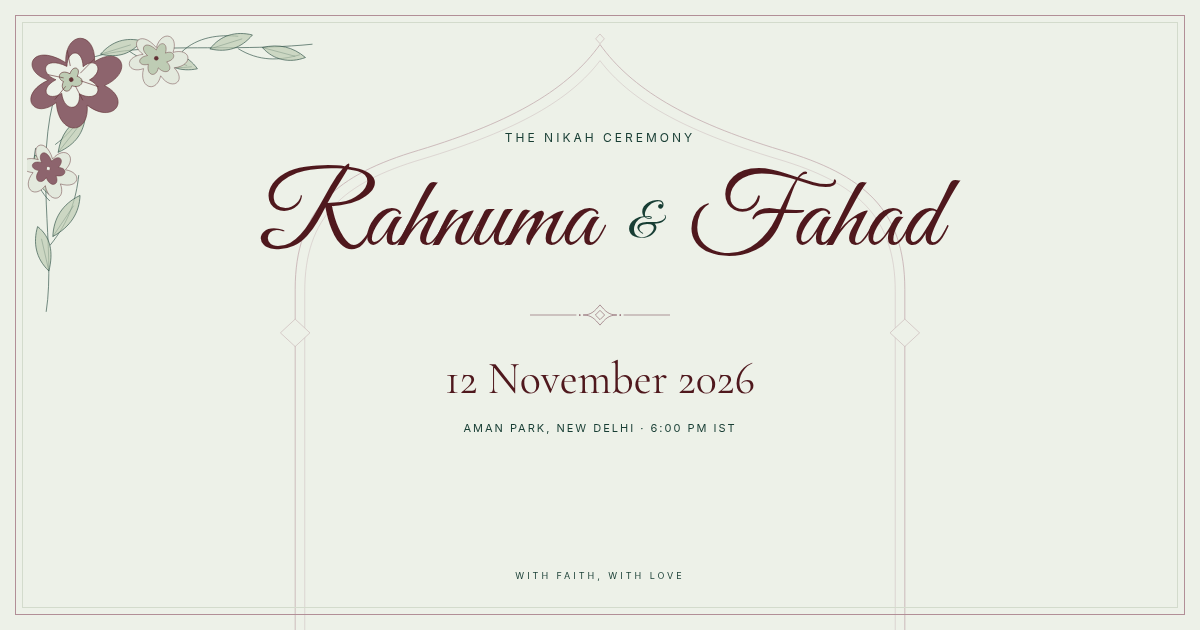
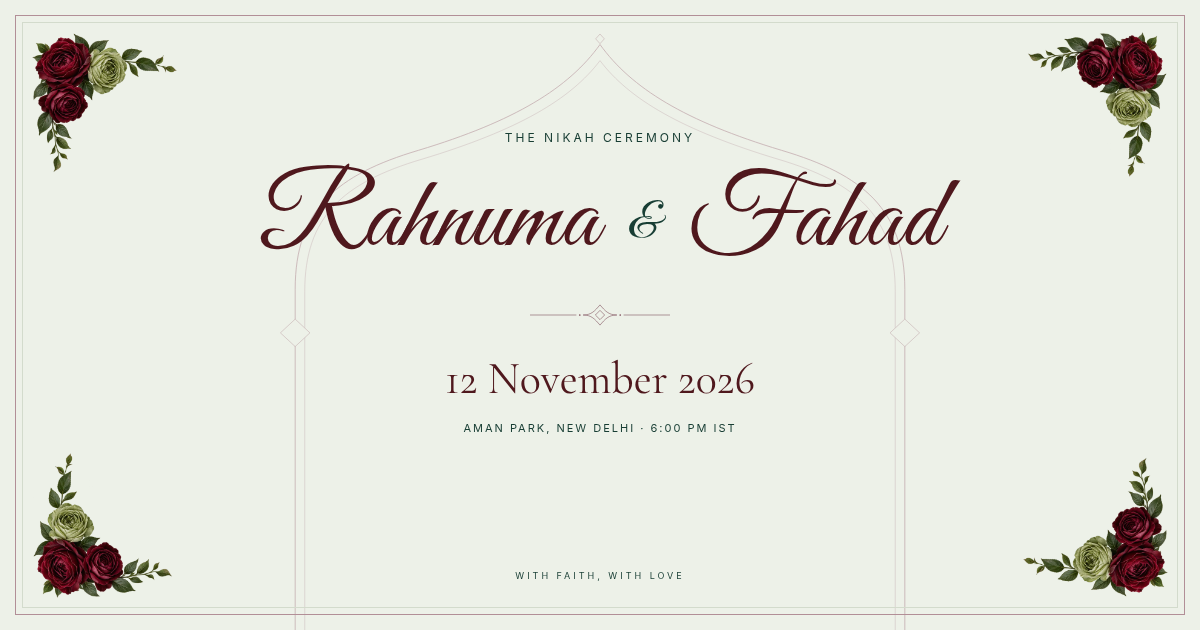
Replace flat hero florals with textured roses in four corners

diff --git a/design/social-preview.html b/design/social-preview.html
@@ -1,4 +1,4 @@
 <!DOCTYPE html><html lang="en"><head><meta charset="utf-8"><style>
  @font-face{font-family:Invitation;src:url(../public/fonts/cormorant-garamond-latin.woff2);font-weight:300 700}@font-face{font-family:Details;src:url(../public/fonts/inter-latin.woff2);font-weight:100 900}
  :root{--forest:#183e34;--sage:#b8c8ad;--paper:#edf1e8;--paper-deep:#e2e9dc;--maroon:#4f181d;--maroon-soft:#80515d;--maroon-line:#b28f97}*{box-sizing:border-box}body{margin:0;width:1200px;height:630px;background:var(--paper);color:var(--maroon);text-align:center;overflow:hidden;font-family:Invitation;position:relative}body:before{content:'';position:absolute;inset:15px;border:1px solid #b28f97}body:after{content:'';position:absolute;inset:22px;border:1px solid #d3dbcc}.hero-arch{position:absolute;left:270px;top:34px;width:660px;height:630px;color:var(--maroon-line);opacity:.65}.floral{position:absolute;width:275px;height:500px;top:45px}.left{left:-20px;transform:scaleX(-1)}.right{right:-20px}.content{position:relative;padding-top:130px}.eyebrow{font-family:Details;font-size:12px;letter-spacing:3px;margin:0 0 25px;color:var(--forest)}h1{font-weight:400;font-size:113px;line-height:1;margin:0;letter-spacing:-4px}h1 span{font-size:55px;vertical-align:9px;padding:0 12px;color:var(--forest)}.ornament{width:140px;height:28px;margin:27px auto 21px;color:var(--maroon-soft)}.date{font-size:44px;line-height:1.1;margin:0}.location{font-family:Details;font-size:11px;letter-spacing:2px;color:var(--forest);margin-top:18px}.footer{position:absolute;bottom:40px;width:100%;font-family:Details;font-size:9px;letter-spacing:3px;color:var(--forest)}
- @font-face{font-family:Names;src:url('../public/fonts/great-vibes-latin.woff2');font-weight:400}h1{font-family:Names;letter-spacing:0;font-size:104px}h1 span{font-size:50px}</style><style>.hero-corner-floral{position:absolute;width:305px;height:305px;left:27px;top:27px;opacity:.88}</style></head><body><svg class="hero-corner-floral" viewBox="0 0 460 460" fill="none" aria-hidden="true"><g stroke="var(--forest)" stroke-width="1" stroke-linecap="round" stroke-linejoin="round"><path d="M29 429C44 332 9 206 45 93 73 5 263 43 430 26M35 329c29-36 39-69 43-105M34 262C9 238 8 206 13 183M43 177c28-21 43-44 48-70M155 37c32 22 58 27 93 23M234 37c23-22 56-26 84-23M319 33c31 19 61 18 92 9"></path><g fill="var(--sage)" fill-opacity=".7"><path d="M33 368c-20-19-24-43-17-67 20 16 24 39 17 67ZM39 316c27-15 40-36 41-62-27 13-40 35-41 62ZM33 252c-19-14-27-37-21-59 19 13 27 33 21 59ZM47 189c27-12 39-31 41-55-25 11-37 29-41 55ZM111 41c17-20 39-26 62-20-16 20-36 26-62 20ZM196 41c15 20 37 27 61 22-15-21-36-28-61-22ZM276 33c16-21 39-27 64-21-17 20-38 27-64 21ZM355 31c17 19 41 24 65 15-19-16-40-21-65-15Z"></path></g><g stroke-width=".6" opacity=".65"><path d="m33 368-11-48m17-4 31-46m-37-18-16-45m30-18 33-42m31-106 45-14m40 14 45 17m35-25 48-15m31 13 49 13"></path></g></g><g transform="translate(63 68) rotate(-18)" stroke="var(--maroon)" stroke-width=".85"><path d="M0-15C-40-62-70-24-33 2c-52 6-41 51 1 36-13 48 32 64 43 18 28 41 67 13 34-20 50-6 43-51-3-39C58-47 14-62 0-15Z" fill="var(--maroon-soft)"></path><path d="M0-9C-28-36-44-13-22 5c-30 5-23 29 2 22-6 29 20 35 25 9 20 21 41 4 21-15 28-6 20-32-3-22C31-28 9-34 0-9Z" fill="var(--paper)"></path><path d="M1 3c-12-13-23 0-13 8-11 11 2 23 10 10 13 10 24-3 12-11C21-1 9-9 1 3Z" fill="var(--sage)"></path><path d="M-31-6-10 6m-23 27 22-14m18 28-4-24m33 12L13 18m30-25L16 7M8-32 5-8"></path><circle cy="12" r="3" fill="var(--maroon)"></circle></g><g transform="translate(195 40) scale(.6)" stroke="var(--maroon)" stroke-width="1.1"><path d="M0-15C-40-62-70-24-33 2c-52 6-41 51 1 36-13 48 32 64 43 18 28 41 67 13 34-20 50-6 43-51-3-39C58-47 14-62 0-15Z" fill="var(--paper-deep)"></path><path d="M0-9C-28-36-44-13-22 5c-30 5-23 29 2 22-6 29 20 35 25 9 20 21 41 4 21-15 28-6 20-32-3-22C31-28 9-34 0-9Z" fill="var(--sage)"></path><circle cy="12" r="5" fill="var(--maroon)"></circle></g><g transform="translate(35 207) rotate(24) scale(.58)" stroke="var(--maroon)" stroke-width="1.1"><path d="M0-15C-40-62-70-24-33 2c-52 6-41 51 1 36-13 48 32 64 43 18 28 41 67 13 34-20 50-6 43-51-3-39C58-47 14-62 0-15Z" fill="var(--paper-deep)"></path><path d="M0-9C-28-36-44-13-22 5c-30 5-23 29 2 22-6 29 20 35 25 9 20 21 41 4 21-15 28-6 20-32-3-22C31-28 9-34 0-9Z" fill="var(--maroon-soft)"></path><circle cy="12" r="5" fill="var(--paper)"></circle></g></svg><svg class="hero-arch" viewBox="0 0 760 780" preserveAspectRatio="none" fill="none" aria-hidden="true"><path d="M29 779V316c0-99 48-142 142-172C282 108 344 67 380 13c36 54 98 95 209 131 94 30 142 73 142 172v463" stroke="currentColor" stroke-width="1"></path><path d="M40 779V319c0-93 44-135 135-164C286 119 346 81 380 33c34 48 94 86 205 122 91 29 135 71 135 164v460" stroke="currentColor" stroke-width=".5"></path><path d="m380 0 5 6-5 6-5-6 5-6Zm-368 370 17 17 17-17-17-17-17 17Zm702 0 17 17 17-17-17-17-17 17Z" fill="var(--paper)" stroke="currentColor" stroke-width=".7"></path></svg><div class="content"><p class="eyebrow">THE NIKAH CEREMONY</p><h1>Rahnuma <span>&amp;</span> Fahad</h1><svg class="ornament hero-ornament" width="166" height="25" viewBox="0 0 166 25" fill="none" aria-hidden="true"><path d="M0 12.5h55m56 0h55M63 12.5c10 0 14-5 20-12 6 7 10 12 20 12-10 0-14 5-20 12-6-7-10-12-20-12Z" stroke="currentColor" stroke-width=".7"></path><path d="m83 7 5.5 5.5L83 18l-5.5-5.5L83 7Z" stroke="currentColor" stroke-width=".7"></path><circle cx="59" cy="12.5" r="1" fill="currentColor"></circle><circle cx="107" cy="12.5" r="1" fill="currentColor"></circle></svg><p class="date">12 November 2026</p><p class="location">AMAN PARK, NEW DELHI · 6:00 PM IST</p></div><p class="footer">WITH FAITH, WITH LOVE</p></body></html>
+ @font-face{font-family:Names;src:url('../public/fonts/great-vibes-latin.woff2');font-weight:400}h1{font-family:Names;letter-spacing:0;font-size:104px}h1 span{font-size:50px}</style><style>.social-floral{position:absolute;width:155px;height:155px;pointer-events:none}.social-floral-top-left{left:27px;top:27px}.social-floral-top-right{right:27px;top:27px;transform:rotate(90deg)}.social-floral-bottom-right{right:27px;bottom:27px;transform:rotate(180deg)}.social-floral-bottom-left{left:27px;bottom:27px;transform:rotate(270deg)}</style></head><body><img class="social-floral social-floral-bottom-left" src="../public/illustrations/floral-corner.webp" width="512" height="512" alt="" aria-hidden="true"><img class="social-floral social-floral-bottom-right" src="../public/illustrations/floral-corner.webp" width="512" height="512" alt="" aria-hidden="true"><img class="social-floral social-floral-top-right" src="../public/illustrations/floral-corner.webp" width="512" height="512" alt="" aria-hidden="true"><img class="social-floral social-floral-top-left" src="../public/illustrations/floral-corner.webp" width="512" height="512" alt="" aria-hidden="true"><svg class="hero-arch" viewBox="0 0 760 780" preserveAspectRatio="none" fill="none" aria-hidden="true"><path d="M29 779V316c0-99 48-142 142-172C282 108 344 67 380 13c36 54 98 95 209 131 94 30 142 73 142 172v463" stroke="currentColor" stroke-width="1"></path><path d="M40 779V319c0-93 44-135 135-164C286 119 346 81 380 33c34 48 94 86 205 122 91 29 135 71 135 164v460" stroke="currentColor" stroke-width=".5"></path><path d="m380 0 5 6-5 6-5-6 5-6Zm-368 370 17 17 17-17-17-17-17 17Zm702 0 17 17 17-17-17-17-17 17Z" fill="var(--paper)" stroke="currentColor" stroke-width=".7"></path></svg><div class="content"><p class="eyebrow">THE NIKAH CEREMONY</p><h1>Rahnuma <span>&amp;</span> Fahad</h1><svg class="ornament hero-ornament" width="166" height="25" viewBox="0 0 166 25" fill="none" aria-hidden="true"><path d="M0 12.5h55m56 0h55M63 12.5c10 0 14-5 20-12 6 7 10 12 20 12-10 0-14 5-20 12-6-7-10-12-20-12Z" stroke="currentColor" stroke-width=".7"></path><path d="m83 7 5.5 5.5L83 18l-5.5-5.5L83 7Z" stroke="currentColor" stroke-width=".7"></path><circle cx="59" cy="12.5" r="1" fill="currentColor"></circle><circle cx="107" cy="12.5" r="1" fill="currentColor"></circle></svg><p class="date">12 November 2026</p><p class="location">AMAN PARK, NEW DELHI · 6:00 PM IST</p></div><p class="footer">WITH FAITH, WITH LOVE</p></body></html>

diff --git a/src/styles/global.css b/src/styles/global.css
@@ -49,7 +49,6 @@ body{position:relative}
 .hero-scroll{position:absolute;bottom:25px;left:50%;transform:translateX(-50%);display:flex;flex-direction:column;align-items:center;text-decoration:none;gap:13px;min-height:44px;font-size:8px;letter-spacing:.22em;white-space:nowrap;color:var(--green-muted)}
 .hero-scroll svg{height:24px}
 .hero-side-note{position:absolute;left:37px;top:51%;writing-mode:vertical-rl;transform:rotate(180deg);font-size:8px;letter-spacing:.23em;color:var(--green-muted)}
-.hero-corner-floral{position:absolute;width:clamp(230px,27vw,380px);height:auto;top:7px;left:16px;z-index:-1;opacity:.88;pointer-events:none}
 .invitation,.closing,.button-maroon,.skip-link{background-image:var(--velvet-texture);background-size:cover;background-position:center;background-repeat:no-repeat}
 .section-inner{max-width:1080px;margin:auto;padding-right:32px;padding-left:32px;text-align:center}
 .section-dark{background-color:var(--forest);color:var(--paper)}
@@ -134,7 +133,7 @@ blockquote footer{font-size:9px;letter-spacing:.045em;color:var(--green-muted);l
 .back-top{font-size:8px;letter-spacing:.15em;text-decoration:none;display:flex;align-items:center;gap:14px;min-height:44px}
 .back-top>span{font-size:20px}
 @media(min-width:1100px) and (min-height:850px){.hero{padding-top:80px}.hero-occasion{margin-bottom:17px}.hero-blessing{margin-bottom:28px}.hero-ornament{margin-top:30px;margin-bottom:20px}.hero-date{font-size:43px}}
-@media(max-width:850px){.hero-side-note{display:none}.hero-corner-floral{width:240px;left:10px}.hero-arch{width:85%}.hero{min-height:735px}.masthead{padding:0 32px}.venue-section{gap:35px}.date-composition{gap:20px}.date-side{width:155px}.venue-art{min-height:300px;padding:15px}.venue-copy .eyebrow{max-width:230px}.page-footer{padding:24px 32px}.page-footer p{letter-spacing:.08em}.page-footer p span{margin:0 8px}}
+@media(max-width:850px){.hero-side-note{display:none}.hero-arch{width:85%}.hero{min-height:735px}.masthead{padding:0 32px}.venue-section{gap:35px}.date-composition{gap:20px}.date-side{width:155px}.venue-art{min-height:300px;padding:15px}.venue-copy .eyebrow{max-width:230px}.page-footer{padding:24px 32px}.page-footer p{letter-spacing:.08em}.page-footer p span{margin:0 8px}}
 @media(max-width:600px){
   .page-frame{inset:8px 8px auto;height:calc(100% - 16px)}
   .masthead{height:66px;padding:0 25px;gap:10px}
@@ -142,7 +141,6 @@ blockquote footer{font-size:9px;letter-spacing:.045em;color:var(--green-muted);l
   .masthead-message{display:none}.masthead-date{font-size:8px;letter-spacing:.17em;gap:9px}
   .hero{min-height:615px;height:calc(100svh - 66px);max-height:765px;padding:63px 23px 90px;align-items:center}
   .hero-arch{width:calc(100% - 43px);top:7px;height:calc(100% - 64px)}
-  .hero-corner-floral{width:170px;top:9px;left:12px;opacity:.8}
   .bismillah{font-size:29px;line-height:1.8}
   .bismillah-translation{font-size:12px;max-width:240px;line-height:1.5;margin:0 auto 22px}
   .hero-blessing{font-size:6.5px;letter-spacing:.12em;line-height:1.9;max-width:240px;margin:0 auto 19px}
@@ -191,6 +189,6 @@ blockquote footer{font-size:9px;letter-spacing:.045em;color:var(--green-muted);l
   .page-footer{padding:25px 28px 29px;flex-wrap:wrap;gap:5px 10px;min-height:140px}.footer-monogram{font-size:28px;min-width:60px}.page-footer p{order:3;width:100%;font-size:6.5px;letter-spacing:.1em;margin-top:5px;text-align:center}.page-footer p span{margin:0 9px}.back-top{font-size:7px;gap:10px}
 }
 @media(max-width:359px){.hero{padding-left:19px;padding-right:19px;min-height:590px;padding-top:54px}.hero-arch{width:calc(100% - 32px)}.bismillah{font-size:26px}.hero-blessing{max-width:220px;font-size:6px}.hero-place{font-size:9px}.hero-date{font-size:28px}.hero-occasion{font-size:20px}.couple-names{font-size:11.5vw}.bismillah-translation{font-size:11px;margin-bottom:19px}.hero-ornament{margin-top:18px;margin-bottom:13px}.hero-scroll{font-size:6px}.section-inner{padding-left:18px;padding-right:18px}.invitation h2{font-size:36px}.family-details{gap:14px}.family-details strong{font-size:16px}.verse-section{padding-left:18px;padding-right:18px}.celebration h2{font-size:34px}.actions{gap:8px}.button{font-size:9px;padding:13px 11px}.venue-section{padding:0 25px}.closing{padding-left:25px;padding-right:25px}.closing h2{font-size:29px}.closing-family{font-size:23px}}
-@media(prefers-reduced-motion:no-preference){.hero-content{animation:arrive .8s ease-out both}.hero-corner-floral{animation:botanical-appear 1.2s ease-out both}@keyframes arrive{from{opacity:.75;transform:translateY(6px)}to{opacity:1;transform:translateY(0)}}@keyframes botanical-appear{from{opacity:.3}to{opacity:.88}}}
+@media(prefers-reduced-motion:no-preference){.hero-content{animation:arrive .8s ease-out both}@keyframes arrive{from{opacity:.75;transform:translateY(6px)}to{opacity:1;transform:translateY(0)}}}
 @media(prefers-reduced-motion:reduce){html{scroll-behavior:auto}*,*::before,*::after{animation:none!important;transition:none!important}}
 @media print{.masthead,.hero-scroll,.page-frame,.page-footer,.share-invitation,.sharing-note{display:none!important}.hero{height:auto;min-height:700px;break-after:page}.section-dark{print-color-adjust:exact}.button{border:1px solid currentColor}.page-frame{border:0}section{break-inside:avoid}}

diff --git a/design/DESIGN-SYSTEM.md b/design/DESIGN-SYSTEM.md
@@ -23,7 +23,7 @@ Every visible color is a shade of maroon or green. All authoritative values are 
 
 Self-hosted Great Vibes forms the couple's and parents' names. Cormorant Garamond variable normal and italic form the editorial headings, quotes, and date numerals. Inter variable is reserved for labels, practical details, and controls. Amiri renders the exact Arabic opening; the included subset is specific to that text.
 
-Use the paired Mughal arch lines, one upper-left L-shaped floral arrangement, thin double stationery borders, central rosette separators, and illustrated architecture. Burgundy panels use the lightweight local velvet image, recreated from the supplied visual reference, with `background-size: cover` and no tiling. The couple illustration follows the reference's rear-view pose and flowing bridal train. The date is always prominent. Content order is a centered arch hero, dark family invitation, scriptural excerpt, ceremonial date composition, location, maroon closing, and monogram footer. Names and date must fit the first invitation viewport on a narrow phone after the entrance opens.
+Use the paired Mughal arch lines, small textured rose arrangements in all four corners of the invitation hero, thin double stationery borders, central rosette separators, and illustrated architecture. The four rose arrangements reuse one optimized transparent image with detailed burgundy and sage petals and green foliage; the lower clusters clear the music control. Burgundy panels use the lightweight local velvet image, recreated from the supplied visual reference, with `background-size: cover` and no tiling. The couple illustration follows the reference's rear-view pose and flowing bridal train. The date is always prominent. Content order is a centered arch hero, dark family invitation, scriptural excerpt, ceremonial date composition, location, maroon closing, and monogram footer. Names and date must fit the first invitation viewport on a narrow phone after the entrance opens.
 
 A Mughal double-door entrance precedes this composition. The opening tap starts the music and swings the doors aside to reveal the invitation. Carved jali linework, sage borders, and the burgundy velvet reuse the same identity. Keyboard activation and reduced-motion preferences are supported; native disclosure provides access without JavaScript.
 
